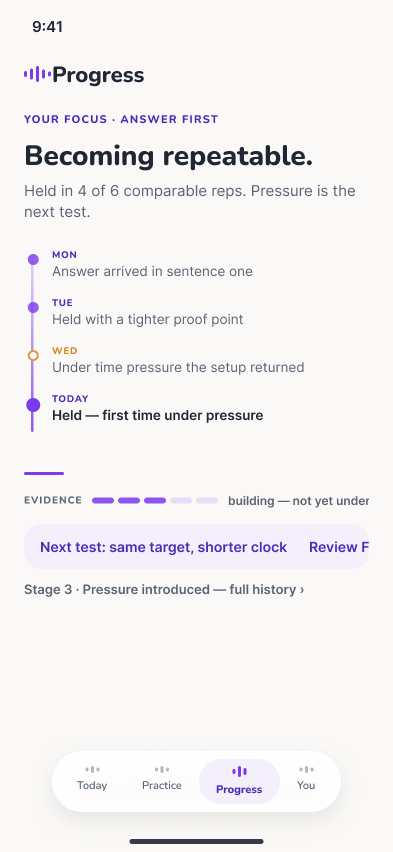
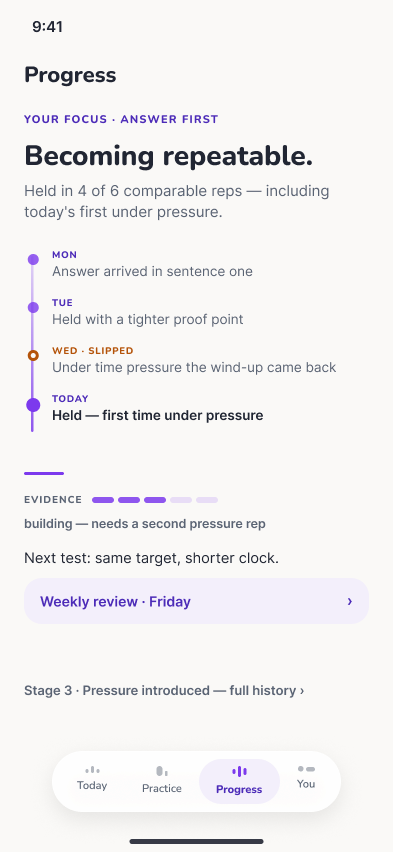
docs: production polish V2 complete — two critique passes, exports, review record
V2 Today/Review/Progress on page 10 with edge-to-edge hero, transcript
transformation (integrity-fixed: user's words only), comparable-attempts
Progress narrative, dark Today, motion spec + wired transformation prototypes
(standard/Reduce Motion), 12 exports incl. before/after contact sheet. Round-1
three-critic pass + round-2 verification (18/20 → all blockers fixed). V1
frames locked and untouched.

diff --git a/artifacts/figma/production-polish-v2/REVIEW.md b/artifacts/figma/production-polish-v2/REVIEW.md
@@ -1,0 +1,55 @@
+# Production Polish V2 — Review Record
+
+**Date:** 2026-07-24 · **Page:** `137:497` "10 Production polish V2" · V1 frames untouched and locked (`109:497/110:497/111:497` on page 02; locked refs `137:498/541/572`).
+
+## Node IDs
+
+| Frame | ID |
+|---|---|
+| V2 Today (light) | `138:497` |
+| V2 Today (dark) | `150:497` |
+| V2 Review | `139:497` |
+| V2 Progress | `141:497` |
+| Motion spec board | `142:497` |
+| Transformation prototype (standard, smart-animate 600ms) | `143:497` → `143:508` |
+| Transformation prototype (Reduce Motion, instant) | `143:519` → `143:530` |
+| Live-call directions (from freeze run) | D1 `115:497` · D2 `115:522` · D3 `115:548` |
+| Live-call state matrices ×10 states each | `131:497` · `132:497` · `132:554` |
+
+## What changed and why
+
+**Today** — V1's "card floating on canvas + button" became an **edge-to-edge composition**: the violet hero bleeds through the status bar with faint composition arcs (kills the rectangular-stack read), the CTA straddles the hero seam for depth, the plan became a **journey thread** (2 ✓ nodes, glowing current, ringed next) instead of a text row, the upcoming moment folded into the hero's context strip *and* kept a tappable Prepare row anchored in the lower third, and the **waveform motif** got exactly two homes: hero presence mark + active tab glyph. Copy de-duplicated (eyebrow carries the focus, thread carries the count).
+
+**Review** — now the signature moment: the verified quote shows the coaching *in the transcript itself* — hedges ("What I'd say is that", "probably") struck at a readable #6B7280; the one-step line is **the user's own sentence** with violet emphasis on what now leads. The round-1 coaching critic caught a genuine integrity fault here: V2 originally *inserted* "decide today:" while claiming "your words, one change" — the insertion was Noum's phrase, a second move. Cut. The caption is now literally true: "The decision now lands first — nothing added, nothing lost." Score is fully hidden behind "Noum's full notes ›" (coaching register, not "detailed evaluation").
+
+**Progress** — the bar chart + "+2" dashboard became a **comparable-attempts narrative**: four day-rows on a violet thread, the Wednesday slip honestly marked ("WED · SLIPPED", burnt-amber ring, "Under time pressure the wind-up came back"), an **evidence-depth meter** ("building — needs a second pressure rep"), a static next-test line, and a single-purpose Weekly review row. Vocabulary unified on "wind-up" across surfaces.
+
+## Critic findings (round 1 → fixed)
+
+- Visual: hero+thread strongly better; motif was being stamped like a watermark (→ two homes only); Progress had App-Store-reject-grade right-edge truncations (→ restructured, gone); all three screens died at 65% height (→ anchored lower thirds); tab glyphs were four identical waveforms (→ distinct per-tab glyphs).
+- Coaching: transformation integrity fault (→ insertion cut); "detailed evaluation" register (→ "Noum's full notes"); Progress subhead contradicted its own timeline (→ "including today's first under pressure"); three words for one behaviour (→ "wind-up").
+- Accessibility (measured): "Why this rep?" 3.97:1 in-hero (→ moved to canvas as 44pt links); future-dot ring 1.87:1 (→ violet ring 5.4:1); struck text 2.52:1 (→ 4.83:1); amber 2.28:1 (→ #B45309 + 3pt ring + visible SLIPPED label); adjustment chips 42pt borderless (→ 44pt + hairline). Status bar verified safe on the gradient (6.31:1) — no scrim needed.
+
+## Round 2 verification
+
+18/20 checklist items passed; 2 failures fixed and re-exported: Progress tab bar got the distinct glyphs (the fix had only landed on Today), weekly-review row made single-purpose with correct label/spacer/chevron order. Link-row left-edge nit aligned.
+
+## Rejected ideas
+
+- "decide today:" insertion pill (integrity fault — and cutting it simplified the SwiftUI build from a custom TextRenderer pill to a styled AttributedString range).
+- Waveform stamps beside every page title (watermark effect).
+- Green status dots, raw "+2" counts, rising-bars-without-story.
+- Amber as unsanctioned color → **canonized**: `color/feedback/caution` = honest-lapse marker, non-color cue (hollow ring + SLIPPED label) mandatory.
+
+## Remaining weaknesses (honest)
+
+1. Review's lower half is airy (~250pt under the footer links) — acceptable as a sheet, but real transcripts of varying length must prove the layout.
+2. V2 frames use raw hex + direct fonts (visual-first build); rebinding to variables/styles happens at V2 componentization after founder acceptance.
+3. Dark mode exists for Today only in V2; Review/Progress dark pending acceptance (recolor recipe proven).
+4. The six product states + five Review states still ride the V1 base; they need re-basing onto V2 once accepted.
+5. Live-call winner still untested (preference test), IA still untested (H1 vs H2 task test).
+6. Motion is specified + two wired prototypes; the remaining five moments are spec-only until SwiftUI.
+
+## Verdict
+
+**Ready for founder review** — both critique-and-revision passes complete, all round-2 blockers fixed, improvements visible in `before-after-contact-sheet.png`.

diff --git a/artifacts/figma/FIGMA_PROGRESS.md b/artifacts/figma/FIGMA_PROGRESS.md
@@ -50,4 +50,4 @@ Practice tab + recording states · Ask Noum set · Progress deep set (weekly rev
 Closing run: stale boards archived (21:2, 40:2 → 00), fresh foundations `128:497`, scripted lint fixed (33 texts style-bound, +4 role styles, quiet button 45pt, 2 fills bound), live-call 10-state matrices ×3 (`131:497`,`132:497`,`132:554`), six Today product states (`133:*`), H2 wired prototype (`134:*`), 17 prototype links verified zero dead. Approved frames LOCKED. Remaining tests: live-call preference test, IA task test (H1 vs H2), Stark manual run in-editor.
 
 ## V2 Production polish (in flight, 2026-07-24)
-Page `137:497` "10 Production polish V2". V1 refs locked: 137:498/541/572. V2 frames: Today `138:497` (edge-to-edge hero bleed, waveform motif, context strip, overlapping CTA, journey thread), Review `139:497` (word-level transformation: struck hedges + violet-pill additions), Progress `141:497` (comparable-attempts thread, honest slip, evidence-depth meter). Motion board `142:497`; wired transformation prototypes standard `143:497→143:508` (smart-animate 600ms) + RM `143:519→143:530` (instant). Exports in artifacts/figma/production-polish-v2/. Critique round 1 running (visual/coaching/a11y).
+Page `137:497` "10 Production polish V2". V1 refs locked: 137:498/541/572. V2 frames: Today `138:497` (edge-to-edge hero bleed, waveform motif, context strip, overlapping CTA, journey thread), Review `139:497` (word-level transformation: struck hedges + violet-pill additions), Progress `141:497` (comparable-attempts thread, honest slip, evidence-depth meter). Motion board `142:497`; wired transformation prototypes standard `143:497→143:508` (smart-animate 600ms) + RM `143:519→143:530` (instant). Exports in artifacts/figma/production-polish-v2/. Critique round 1 DONE (3 critics) → all fixes applied. Round 2 verifier: 18/20 pass → 2 blockers fixed (Progress tab glyphs, weekly-review row). Dark V2 Today `150:497`. All 12 exports + REVIEW.md in production-polish-v2/. V2 READY FOR FOUNDER REVIEW; V1 untouched. Remaining: V2 variable rebinding + componentization after acceptance, Review/Progress dark, state re-basing, live-call preference test, IA task test.

diff --git a/docs/FIGMA_GATE_DECISIONS.md b/docs/FIGMA_GATE_DECISIONS.md
@@ -70,3 +70,16 @@ SF Pro fonts are locally-installed system fonts and render with broken metrics t
 - Live-call: 10-state matrices for all three directions (`131:497` D1, `132:497` D2, `132:554` D3) with Reduce Motion and reproducibility notes (D1 = pure SwiftUI shapes; D2 = Metal/mesh-gradient, needs runtime justification; D3 = cheapest pure SwiftUI). **No winner chosen — preference test required.**
 - Product states added (page 05, `133:497–133:712`): first-session minimal evidence, earned-progress arrival, goal-changed (evidence carried over, no identity shaming), low-capacity, no-upcoming-moment, offline.
 - IA: H2 Coach/Practice/You wired prototype built (`134:497/530/546`); H1 = approved screens. 17 prototype links verified, zero dead hotspots.
+
+---
+
+## Production polish V2 — 2026-07-24
+
+Page `137:497`. V1 approved frames remain locked; V2 candidates await founder acceptance: Today `138:497` (+dark `150:497`), Review `139:497`, Progress `141:497`. Full record: `artifacts/figma/production-polish-v2/REVIEW.md`.
+
+Key decisions made in this pass:
+- **Motif law:** the waveform mark lives in exactly two homes — Today hero presence + active tab glyph. Never stamped beside titles.
+- **Transformation integrity:** the one-step rewrite highlights what now leads in the user's own words; Noum never inserts its own phrasing while claiming "your words." ("nothing added, nothing lost" is the contract.)
+- **Amber canonized:** `color/feedback/caution` marks honest lapses (hollow ring + text label, never color alone).
+- **Edge-to-edge hero** replaces card-on-canvas on Today; blue CTA straddles the hero seam.
+- Vocabulary: the trained behaviour's failure mode is "wind-up" on every surface.

diff --git a/artifacts/figma/FIGMA_HANDOFF.md b/artifacts/figma/FIGMA_HANDOFF.md
@@ -34,6 +34,9 @@ One violet gradient hero per app — Today's prescription, the coach's daily bri
 ## FROZEN — 2026-07-24
 The gate is frozen: approved frames locked except defects, components style+variable-bound, states/prototypes verified. Two tests remain before their locks (live-call direction, IA choice) — everything else is implementable now.
 
+## V2 layer (2026-07-24)
+Page 10 holds the production-polish V2 candidates (REVIEW.md in production-polish-v2/ has node IDs, critic record, remaining weaknesses). If the founder accepts V2: rebind to variables/styles, re-base the product/Review states onto V2, complete dark set, then update the component map statuses before Slice 1 visuals are final.
+
 ## How to resume
 
 Read `FIGMA_PROGRESS.md` (node IDs + constraints — especially the SF-font trap and text-node recipe), then continue with the gaps above using page-04 components and the approved screens as the source of truth.
